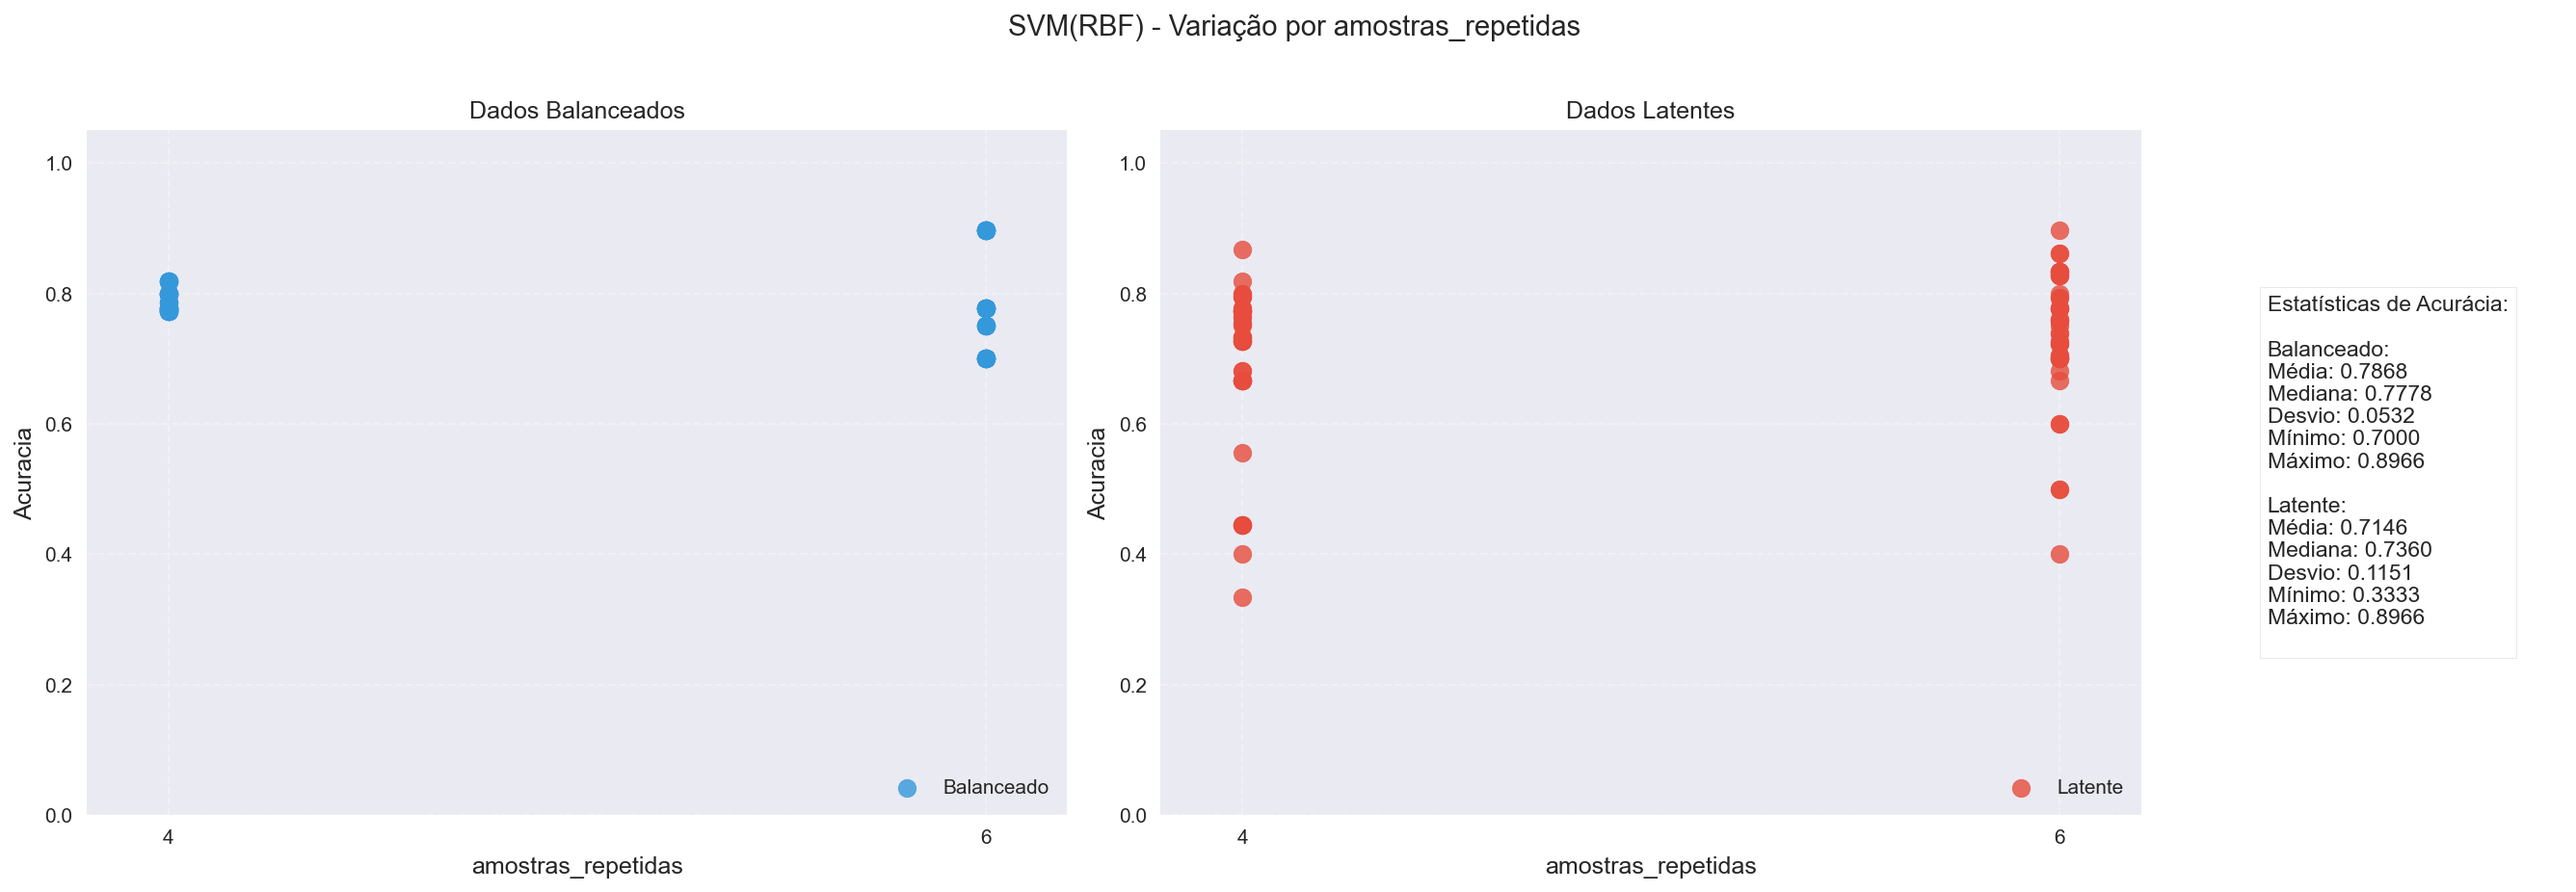
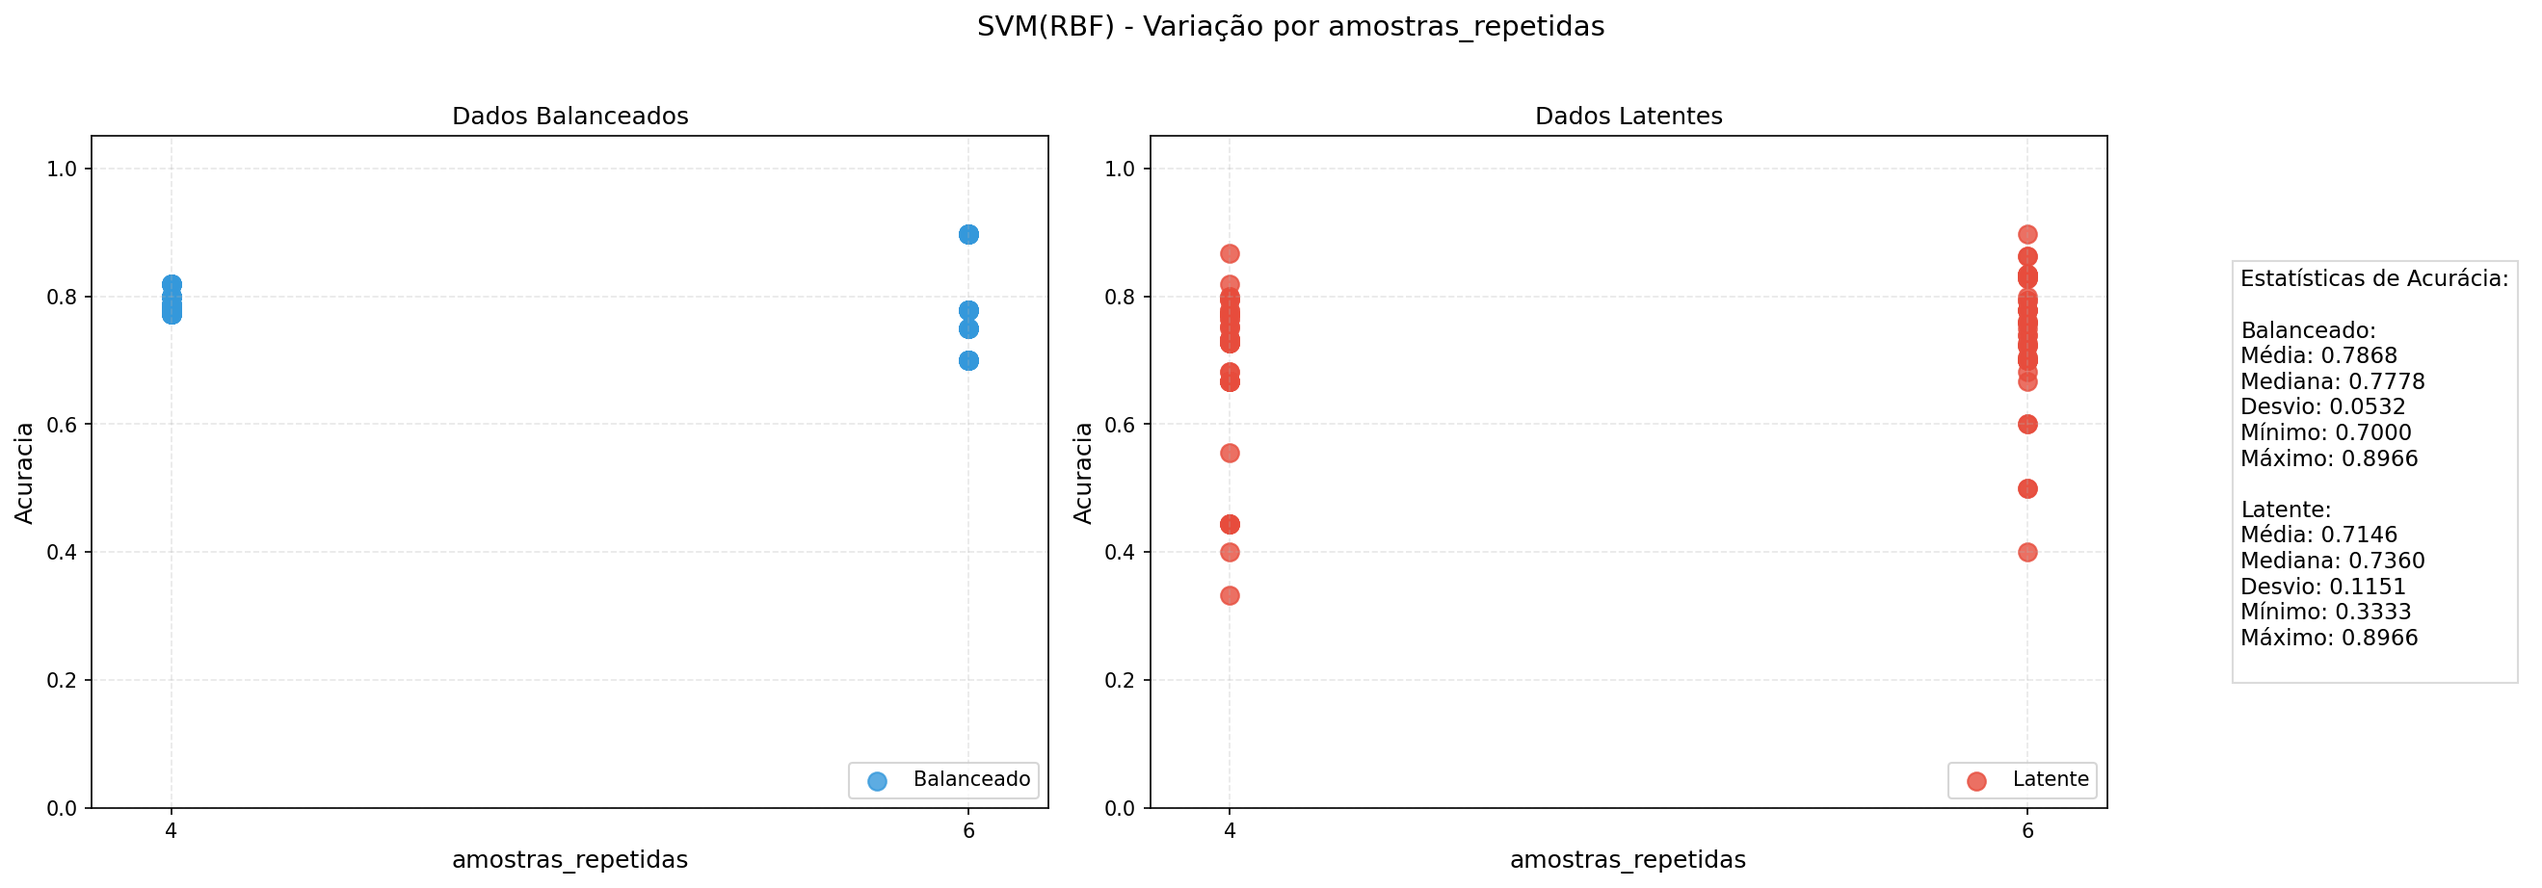
.

diff --git a/classificator_project/funcao_visualizar_parametros.py b/classificator_project/funcao_visualizar_parametros.py
@@ -4,6 +4,7 @@ import os
 import numpy as np
 
 def plot_accuracy_comparisons(json_path, output_dir='plots', metric='Acuracia'):
+
     # 1. Carregar dados
     try:
         with open(json_path, 'r', encoding='utf-8') as f:
@@ -23,7 +24,7 @@ def plot_accuracy_comparisons(json_path, output_dir='plots', metric='Acuracia'):
     ]
 
     # 3. Configuração dos gráficos
-    plt.style.use('seaborn')
+    # plt.style.use('seaborn')
     colors = {
         'balanceado': '#3498db',  # Azul original
         'latente': '#e74c3c'      # Vermelho original
@@ -159,7 +160,9 @@ def plot_accuracy_comparisons(json_path, output_dir='plots', metric='Acuracia'):
     print(f"Gráficos salvos em: {os.path.abspath(output_dir)}")
 
 # Exemplo de uso
+
 if __name__ == "__main__":
 
     caminho_json = r'resultados_personalizados_20250703_143321\metadados_completos.json'
+
     plot_accuracy_comparisons(caminho_json)
